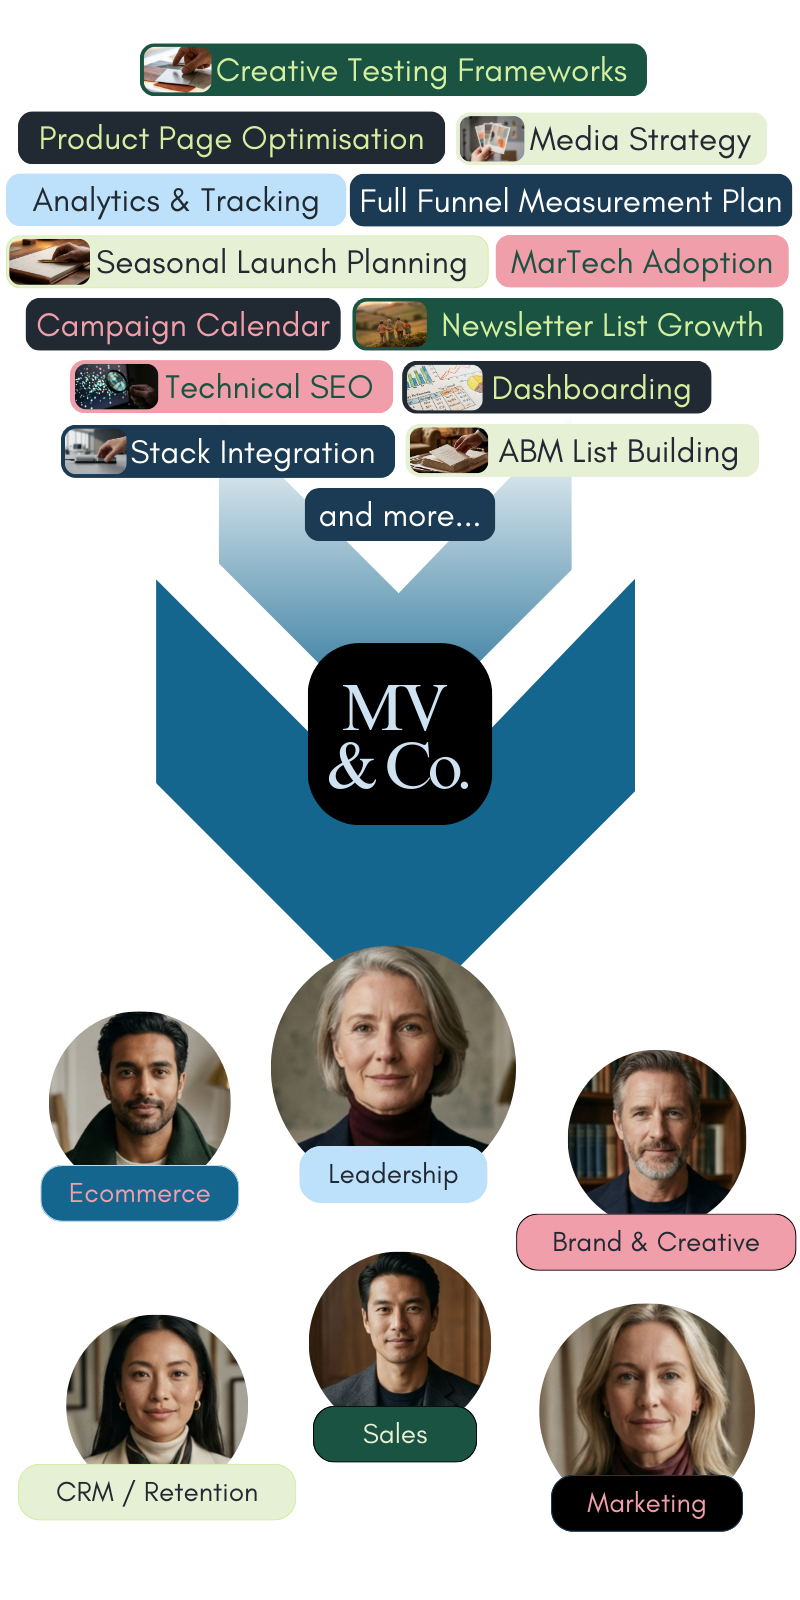
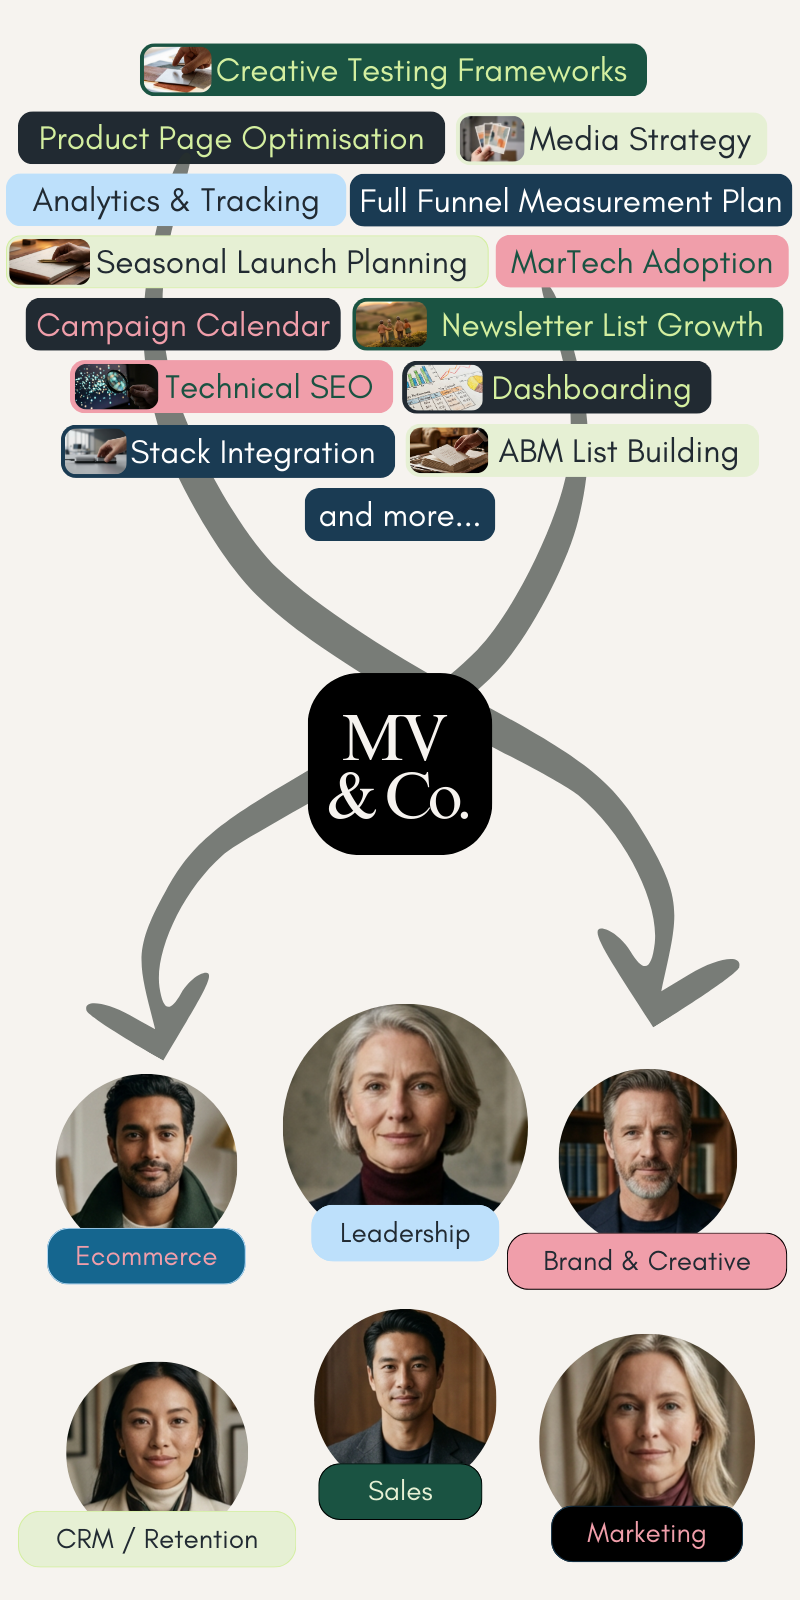
tweaks

diff --git a/index.html b/index.html
@@ -176,7 +176,7 @@
         </article>
         <article class="case-tile case-tile--text case-tile--one">
           <div class="case-tile__content">
-            <h3>The CULTURE of the high-end</h3>
+            <h3>The culture of the high-end</h3>
             <p>We orchestrate senior creative operations for heritage houses, translating a founder’s taste into scalable systems.</p>
             <button class="case-tile__toggle" type="button" aria-expanded="false">Read more</button>
           </div>
@@ -197,7 +197,7 @@
         </article>
         <article class="case-tile case-tile--text case-tile--two">
           <div class="case-tile__content">
-            <h3>The strength of the OFFER</h3>
+            <h3>The strength of the offer</h3>
             <p>Launch marketing playbooks that keep product, trade and paid channels in sync across markets.</p>
             <button class="case-tile__toggle" type="button" aria-expanded="false">Read more</button>
           </div>
@@ -218,7 +218,7 @@
         </article>
         <article class="case-tile case-tile--text case-tile--three">
           <div class="case-tile__content">
-            <h3>The RETAIL excellence and performance</h3>
+            <h3>Retail excellence and performance</h3>
             <p>Bridge store teams and digital squads so high-consideration journeys feel personal everywhere.</p>
             <button class="case-tile__toggle" type="button" aria-expanded="false">Read more</button>
           </div>
@@ -252,7 +252,7 @@
         <div class="contact-details">
           <div class="contact-detail">
             <span class="contact-label">Email</span>
-            <a href="mailto:hello@mvco.agency">hello@mvco.agency</a>
+            <a href="mailto:info@mvco.agency">info@mvco.agency</a>
           </div>
           <div class="contact-detail">
             <span class="contact-label">Phone</span>

diff --git a/assets/css/main.css b/assets/css/main.css
@@ -1411,7 +1411,6 @@ padding: 0;
   width: 95%;
   max-width: 1200px;
   border-radius: 1.25rem;
-  box-shadow: 0 20px 60px rgba(0, 0, 0, 0.2);
 }
 
 @media (max-width: 900px) {
